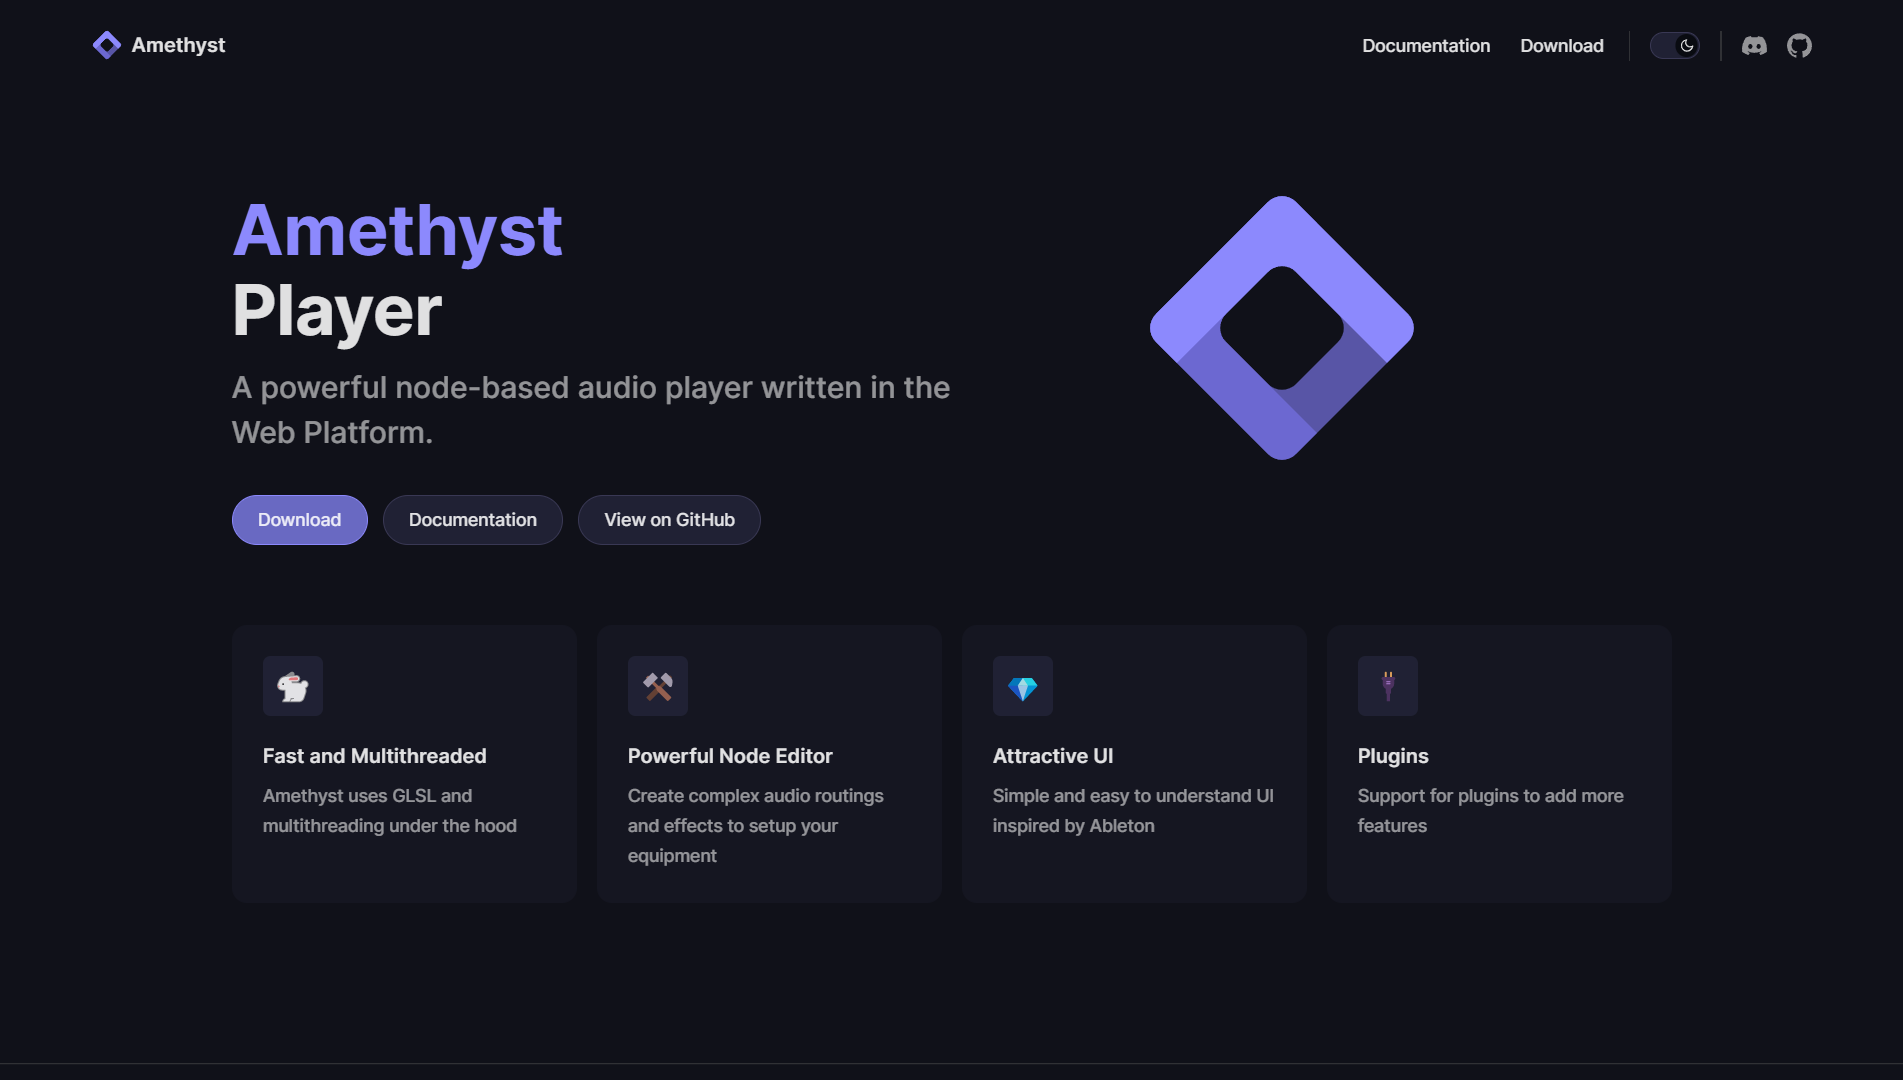
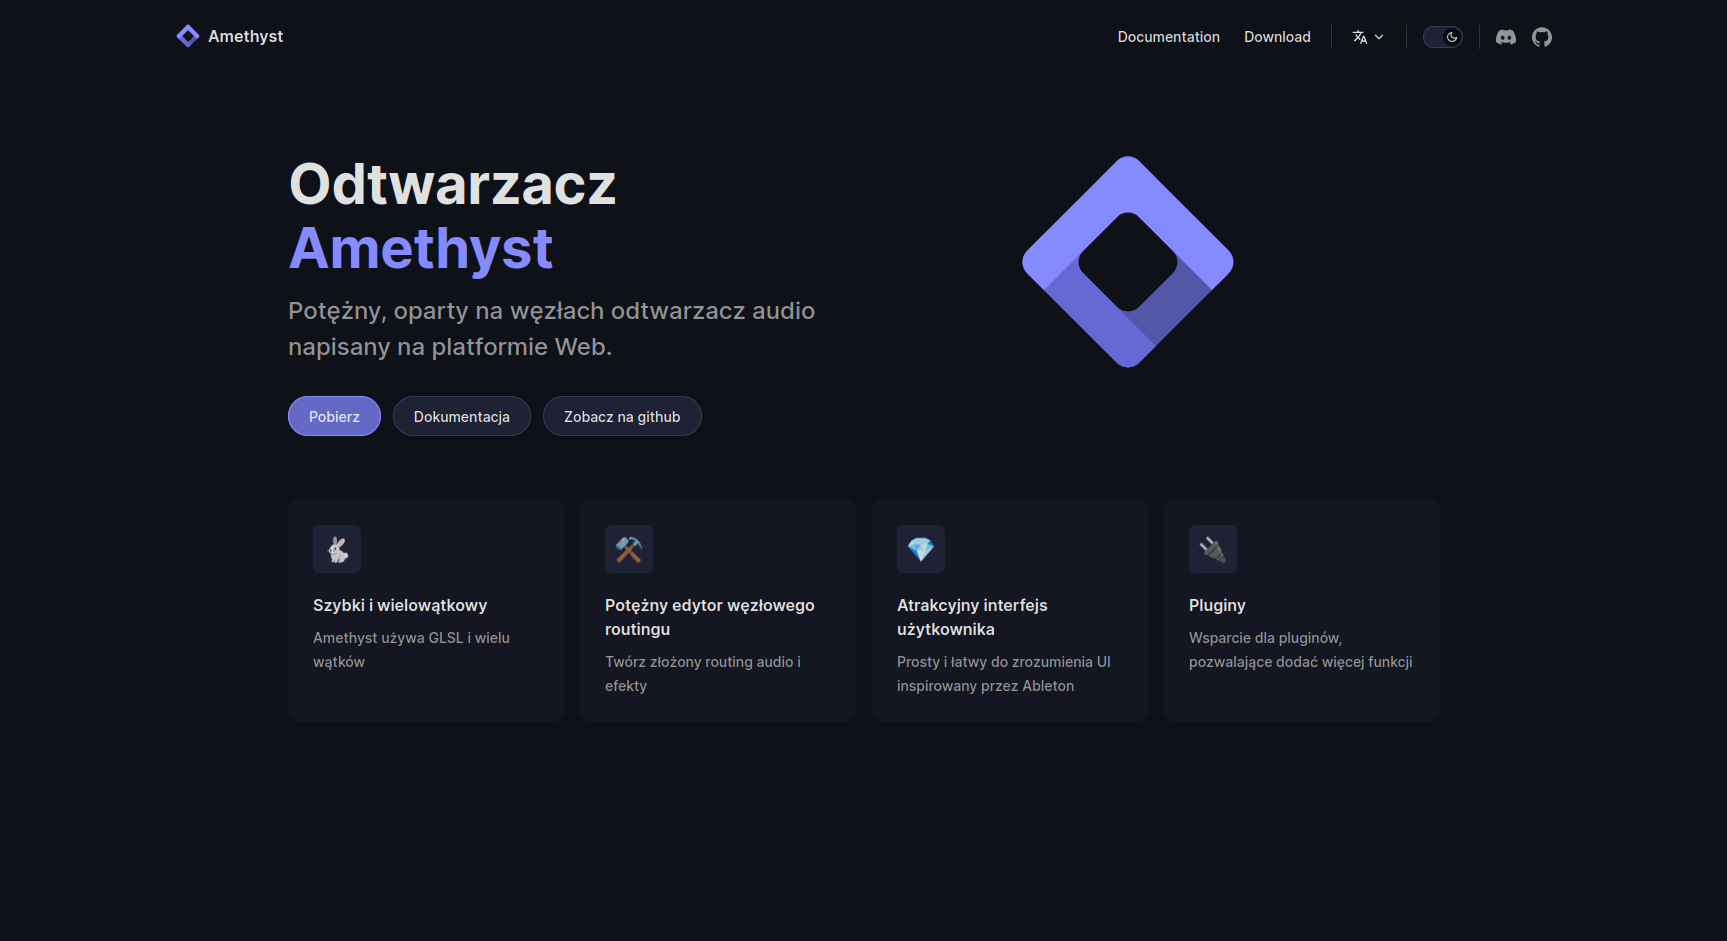
Polish translation v2

diff --git a/docs/pl/nodes/filter_node.md b/docs/pl/nodes/filter_node.md
@@ -2,13 +2,13 @@
 
 <img align="right" style="margin-left: 8px;" src="https://cdn.discordapp.com/attachments/667464431562653706/1052202046369054720/filter_node.png" alt=".node" width="256"/>
 
-The filter node holds a very basic two pole [filter](https://en.wikipedia.org/wiki/Filter_(signal_processing))`(12dB/oct)`, it has multiple [filter types](https://developer.mozilla.org/en-US/docs/Web/API/BiquadFilterNode/type) supported by the [Web Audio API](https://developer.mozilla.org/en-US/docs/Web/API/Web_Audio_API) with adjustable [`Gain`](https://en.wikipedia.org/wiki/Gain_(electronics)), [`Frequency`](https://en.wikipedia.org/wiki/Frequency) and [`Q`](https://en.wikipedia.org/wiki/Q_factor).
+Węzeł fitra to podstawowy dwubiegunowy [filter](https://en.wikipedia.org/wiki/Filter_(signal_processing))`(12dB/oct)`, posiada on również wiele [typów filtrów](https://developer.mozilla.org/en-US/docs/Web/API/BiquadFilterNode/type) obsługiwanych przez [Web Audio API](https://developer.mozilla.org/en-US/docs/Web/API/Web_Audio_API) z regulowalnym [`Wzmacniaczem`](https://en.wikipedia.org/wiki/Gain_(electronics)), [`Częstotliwością`](https://en.wikipedia.org/wiki/Frequency) oraz [`Q`](https://en.wikipedia.org/wiki/Q_factor).
 
-Each of the filters can be duplicated and chained in [series](https://en.wikipedia.org/wiki/Daisy_chain_(electrical_engineering)) to create a steeper [rolloff](https://en.wikipedia.org/wiki/Roll-off) filter. For example, to create a classic `48dB/oct` [rolloff](https://en.wikipedia.org/wiki/Roll-off) filter, you need to chain 4 of them together.
+Każdy z filtrów może być powielany i łączony w [szereg](https://en.wikipedia.org/wiki/Daisy_chain_(electrical_engineering)) aby stworzyć bardziej stromy filtr [rolloff](https://en.wikipedia.org/wiki/Roll-off) filter. Na przykład, aby stworzyć klasyczny `48dB/oct` [rolloff](https://en.wikipedia.org/wiki/Roll-off) filtr, musisz połączyć łańcuchowo 4 z nich.
 
 ## Filter Types
 
-The possible [filter types](https://developer.mozilla.org/en-US/docs/Web/API/BiquadFilterNode/type) are the following: 
+Możliwe [typy filtrów](https://developer.mozilla.org/en-US/docs/Web/API/BiquadFilterNode/type) są następujące:
 
 - [`allpass`](https://en.wikipedia.org/wiki/All-pass_filter)
 - [`notch` (band-stop)](https://en.wikipedia.org/wiki/Band-stop_filter)
@@ -19,5 +19,6 @@ The possible [filter types](https://developer.mozilla.org/en-US/docs/Web/API/Biq
 - [`highpass` (lowcut)](https://en.wikipedia.org/wiki/High-pass_filter)
 - [`lowpass` (highcut)](https://en.wikipedia.org/wiki/Low-pass_filter)
 
-### Notice
-⚠ The [`Q`](https://en.wikipedia.org/wiki/Q_factor) and/or [`Gain`](https://en.wikipedia.org/wiki/Gain_(electronics)) may not have an affect with certain types, and/or certain filters require a [`Q`](https://en.wikipedia.org/wiki/Q_factor) value of `+1` to work as expected.
+### Uwaga
+
+⚠ Wartość [`Q`](https://en.wikipedia.org/wiki/Q_factor) i/lub [`Gain`](https://en.wikipedia.org/wiki/Gain_(electronics)) może nie mieć wpływu z niektórymi typami, i/lub niektóre filtry wymagają wartości [`Q`](https://en.wikipedia.org/wiki/Q_factor) równej `+1` aby działać zgodnie z oczekiwaniami.

diff --git a/docs/pl/nodes/input_node.md b/docs/pl/nodes/input_node.md
@@ -2,4 +2,4 @@
 
 <img align="right" style="margin-left: 8px;" src="https://cdn.discordapp.com/attachments/667464431562653706/1052194717208682497/input_node.png" alt=".node" width="256"/>
 
-The input node is an audio source. By default it outputs the audio from Amethyst's Player, therefore it is essential in order for us to hear playback from the Queue.
+Węzeł input jest źródłem dźwięku. Domyślnie wyprowadza on dźwięk z odtwarzacza Amethyst, dlatego jest niezbędny, abyśmy mogli usłyszeć odtwarzanie z kolejki.

diff --git a/docs/pl/nodes/output_node.md b/docs/pl/nodes/output_node.md
@@ -2,5 +2,5 @@
 
 <img align="right" style="margin-left: 8px;" src="https://cdn.discordapp.com/attachments/667464431562653706/1052196997697904680/output_node.png" alt=".node" width="200"/>
 
-The output node is used to send an audio signal to a given output device, multiple of these nodes can be setup to 
-create an upmix for a surround system.
+Węzeł output służy do wysyłania sygnału audio do danego urządzenia wyjściowego, można skonfigurować wiele takich węzłów, aby 
+stworzyć upmix dla systemu surround.

diff --git a/docs/pl/nodes/master_node.md b/docs/pl/nodes/master_node.md
@@ -2,4 +2,4 @@
 
 <img align="right" style="margin-left: 8px;" src="https://cdn.discordapp.com/attachments/667464431562653706/1052196096467812392/master_node.png" alt=".node" width="200"/>
 
-The master node is the source from which all of the player's visuals are generated from (e.g. the Vectorscope, dB Meter and Spectrum).
+Węzeł główny jest źródłem, z którego generowane są wszystkie wizualizacje odtwarzacza (np. Vectorscope, wskaźnik dB i Spectrum).

diff --git a/docs/pl/index.md b/docs/pl/index.md
@@ -4,7 +4,7 @@ layout: home
 # Hero section
 hero:
   name: Amethyst
-  text: Odtwarzacz
+  text: Odtwarzacz Muzyki
   image:
     src: /icon.svg
     alt: Logo Amethyst
